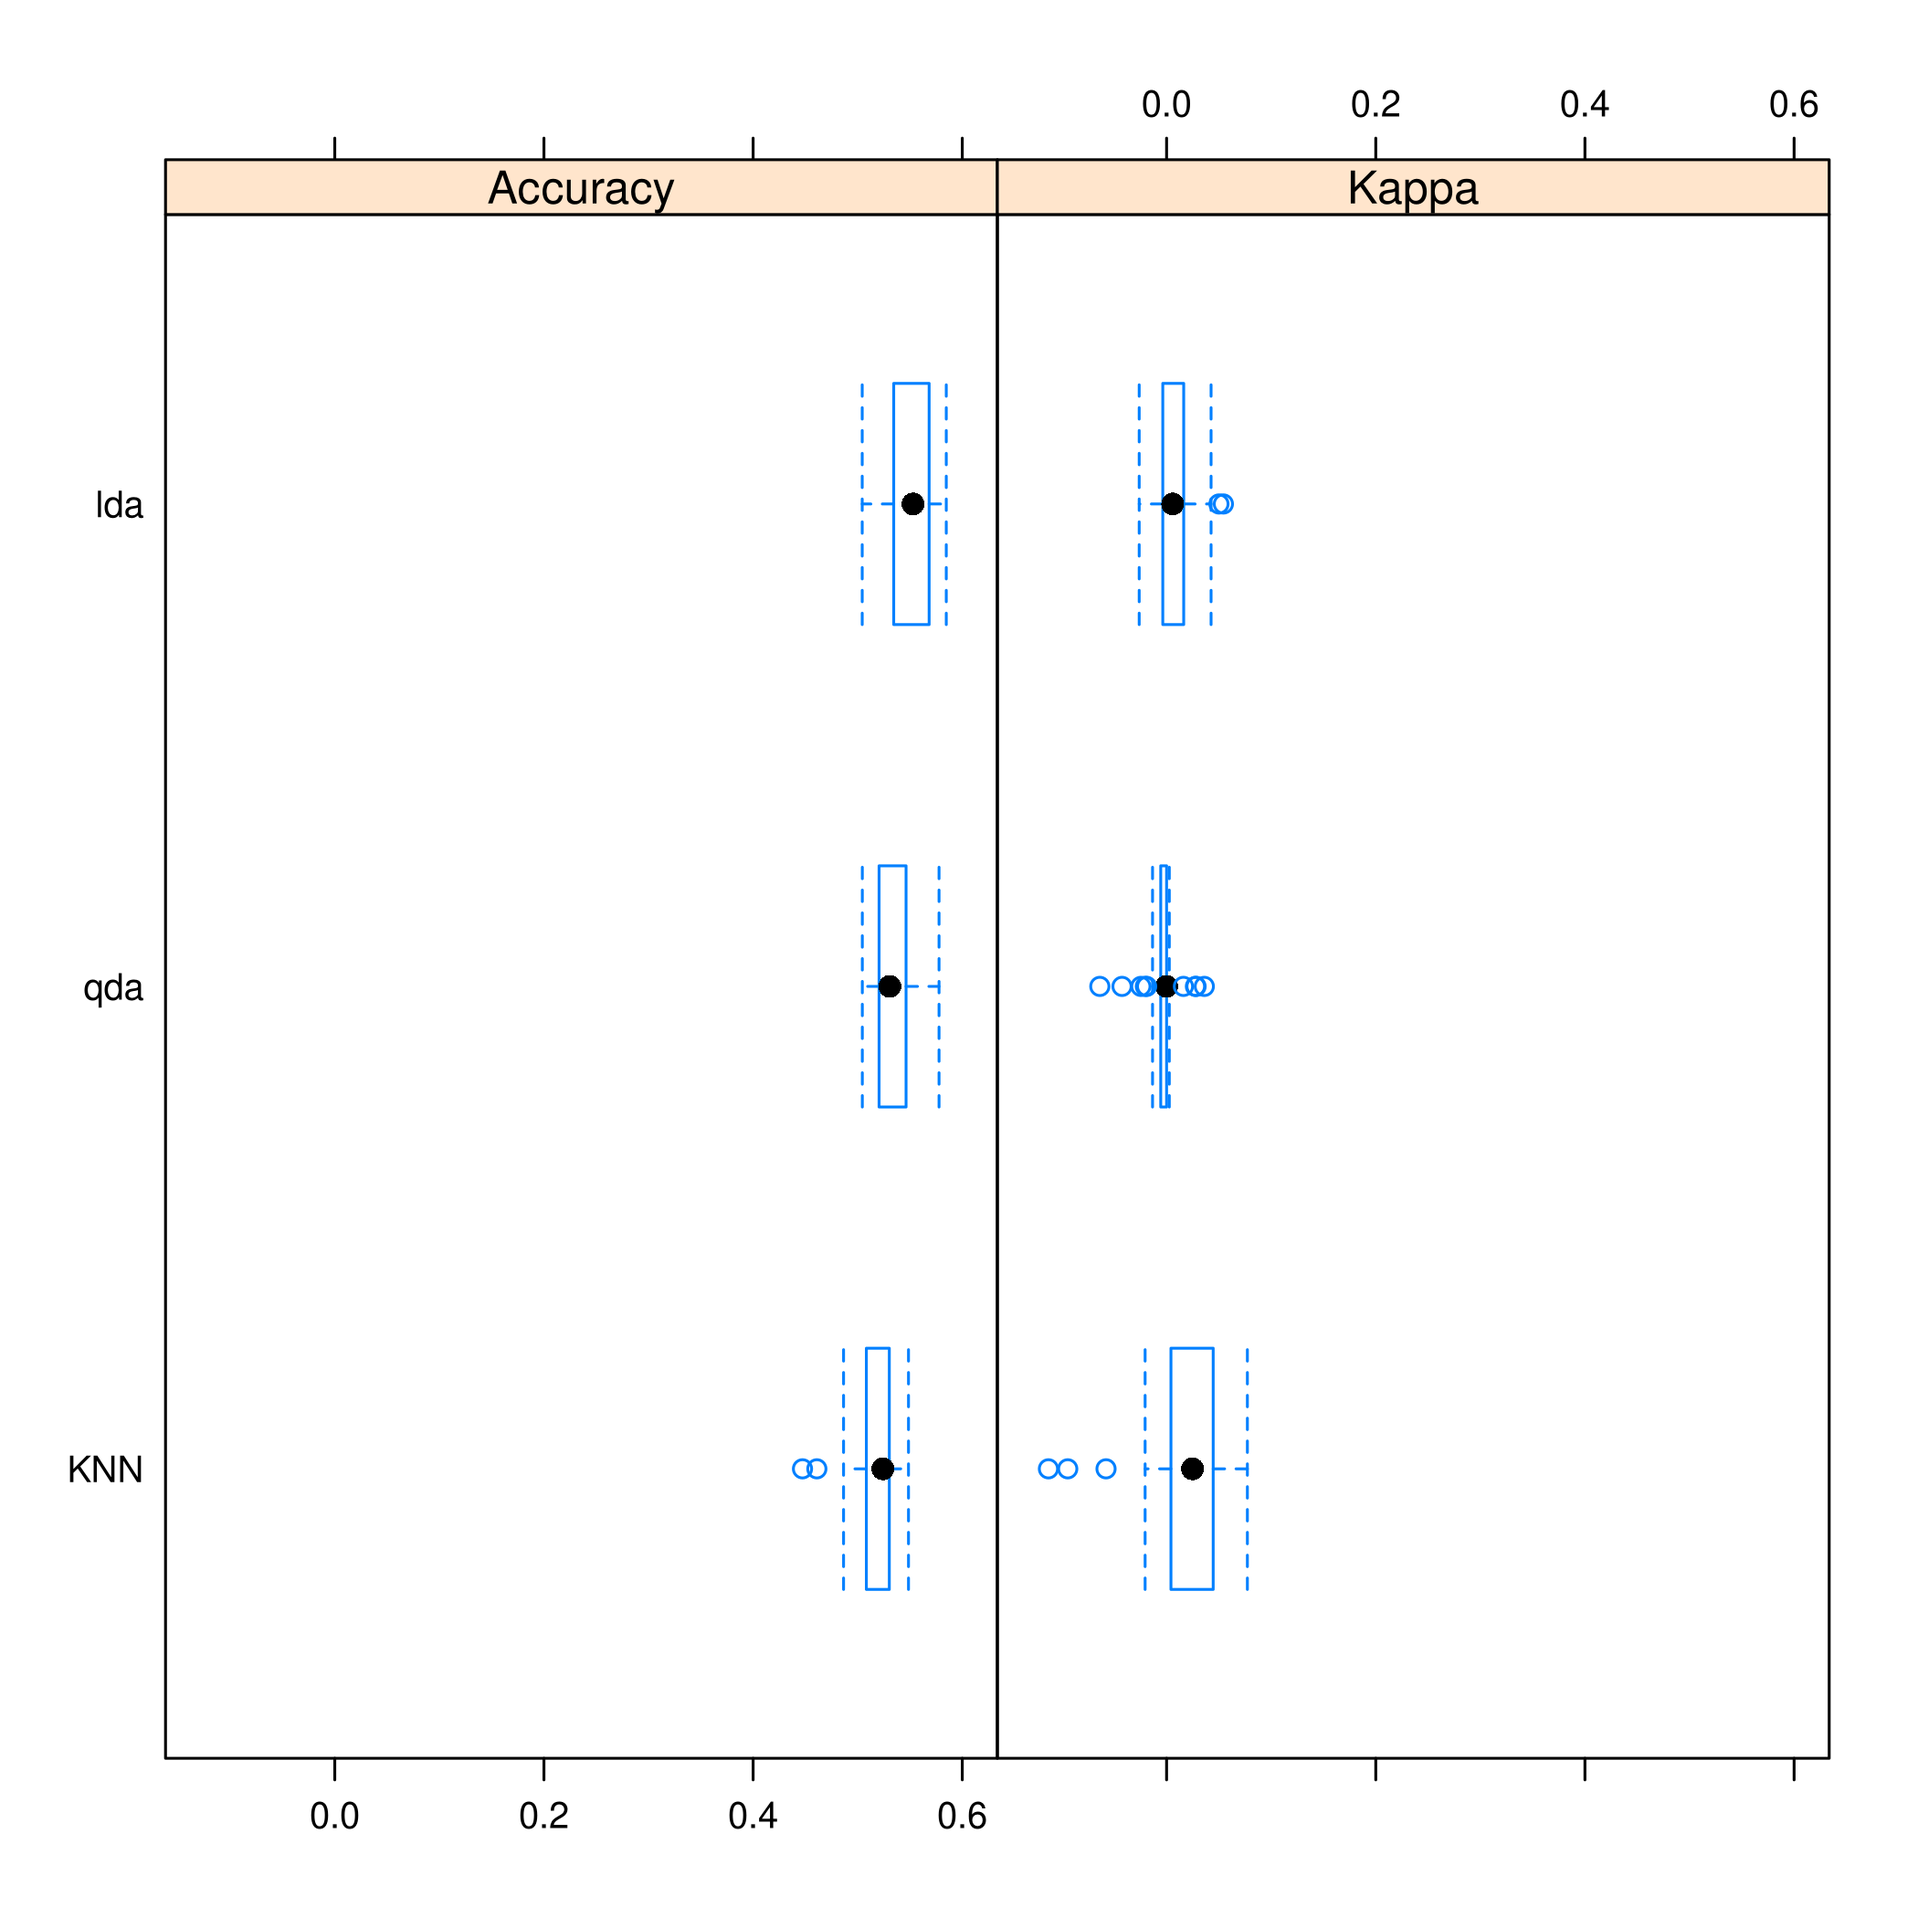
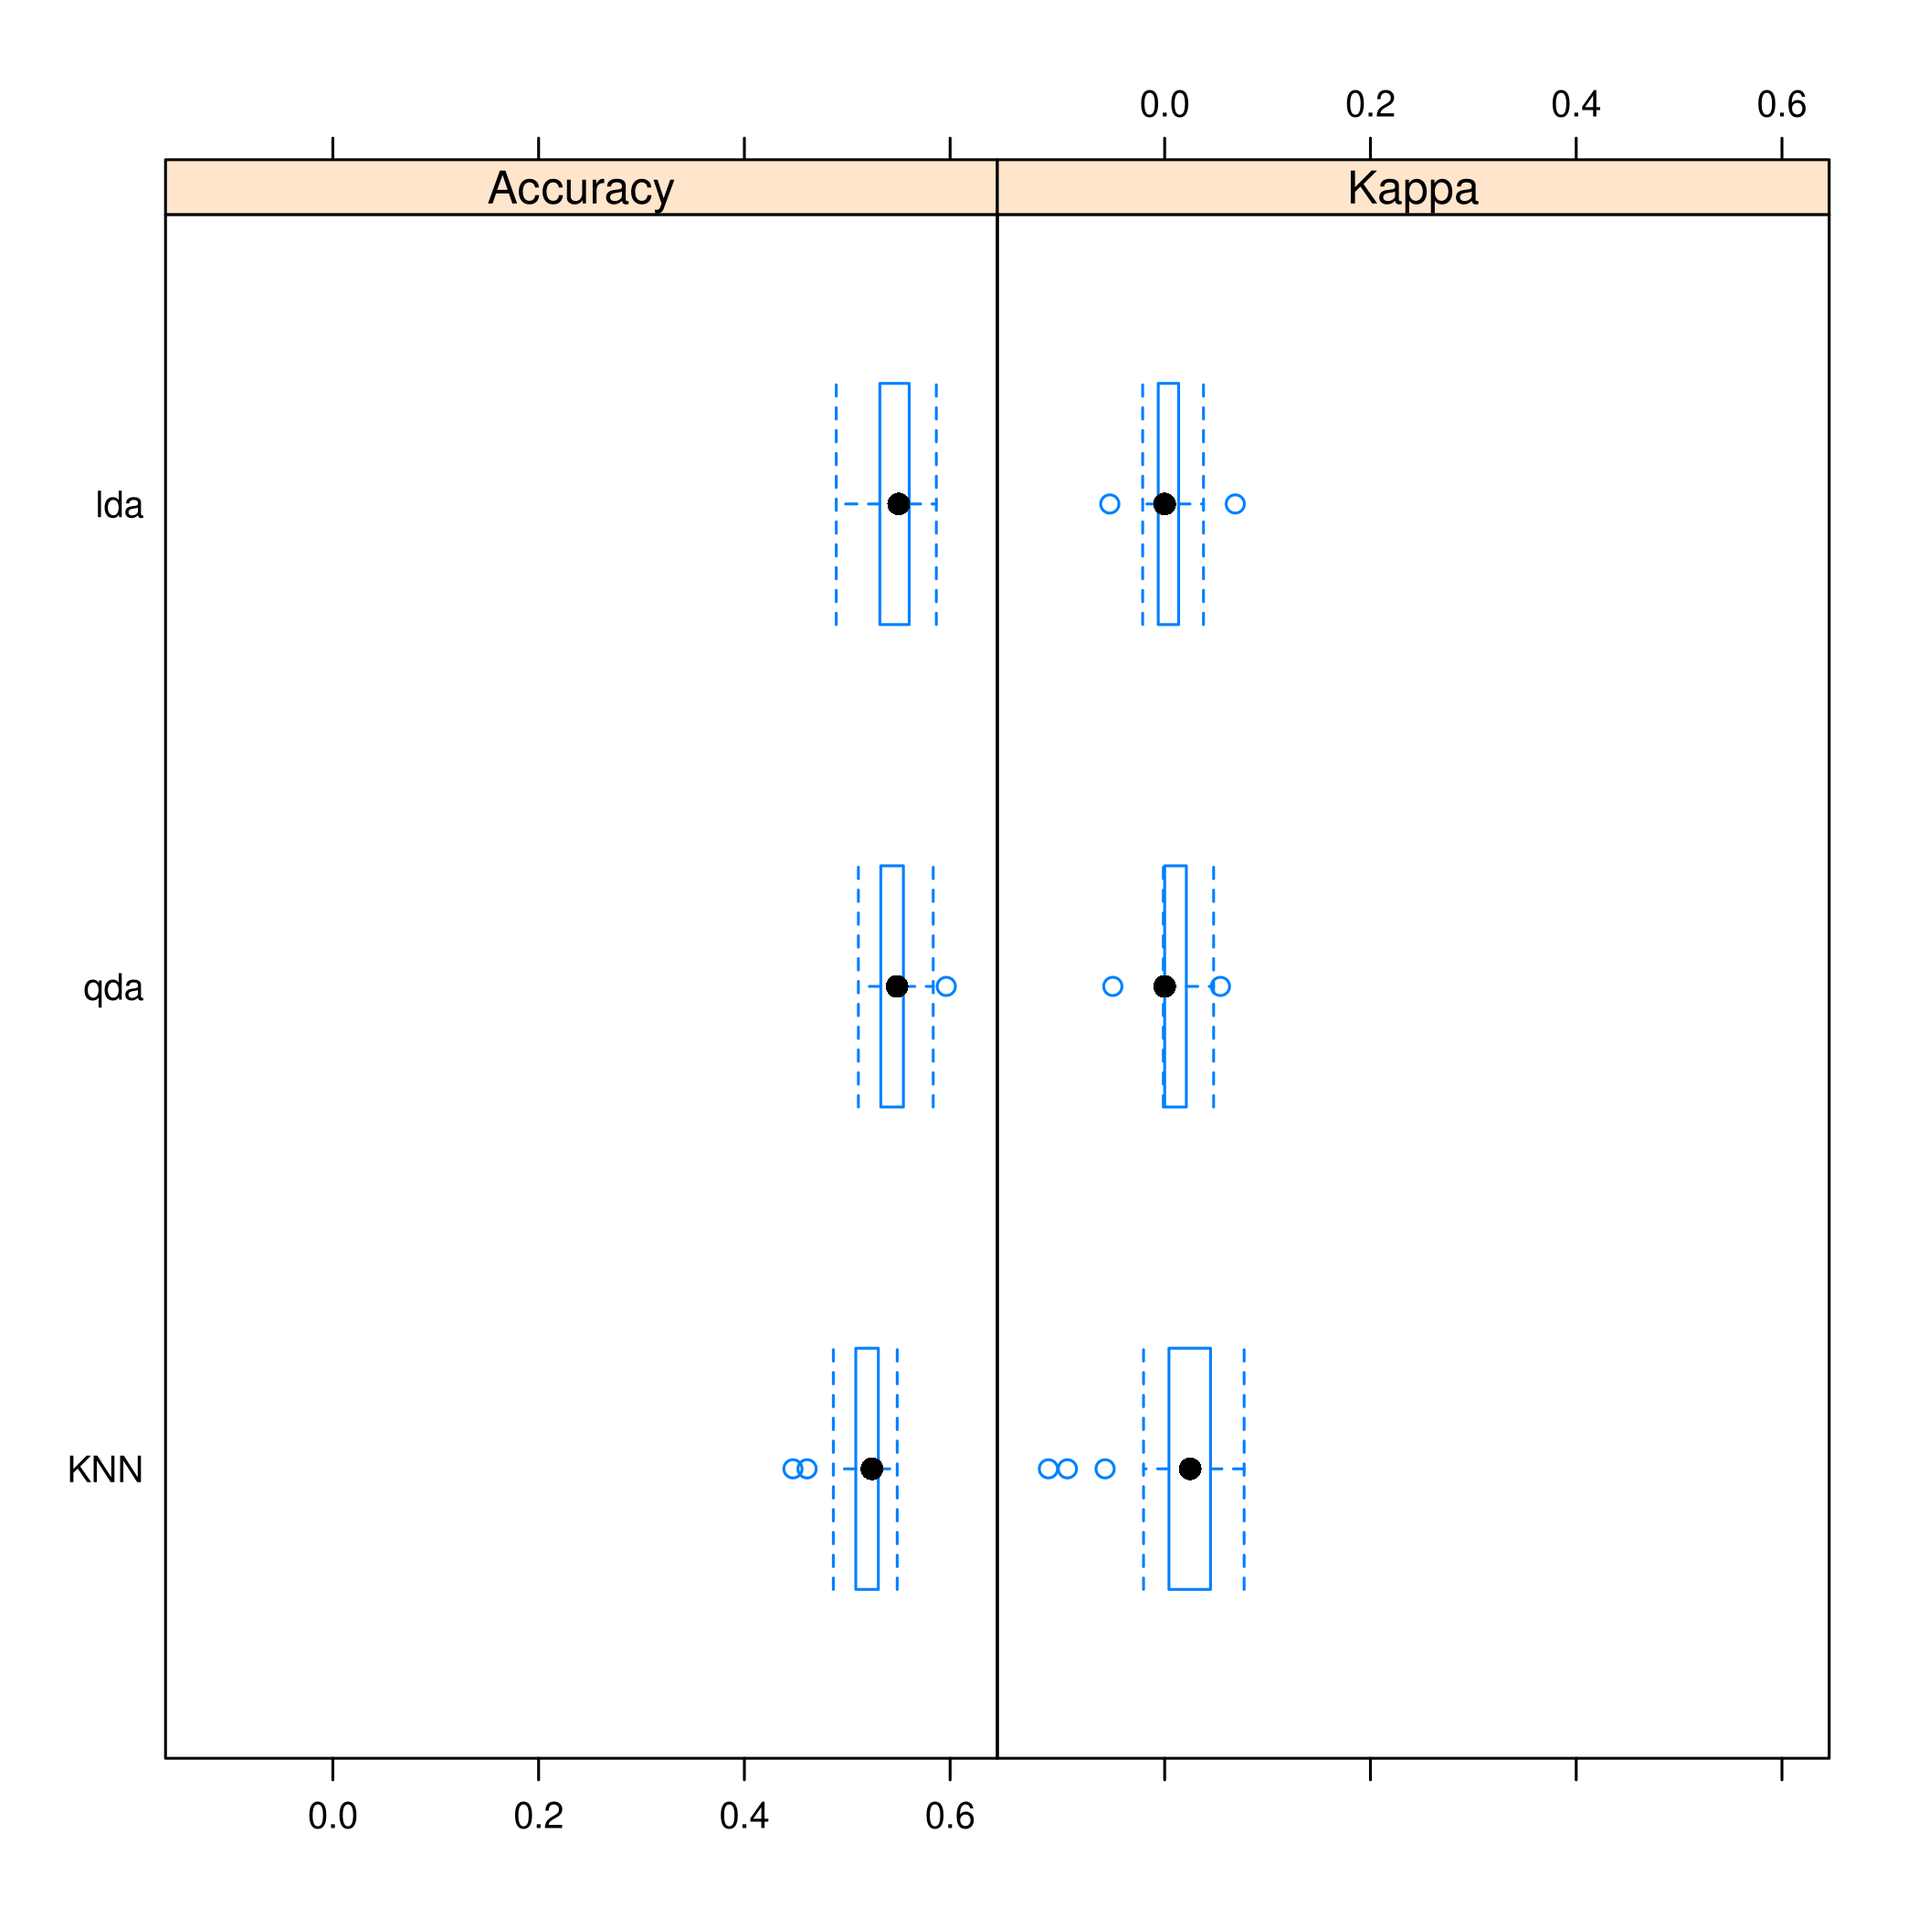
Deploy HaoZeke/haozeke.github.io to github.com/HaoZeke/haozeke.github.io.git:master

diff --git a/posts/islr-ch4/index.html b/posts/islr-ch4/index.html
@@ -40,7 +40,7 @@ libsUsed&lt;-c(&#34;dplyr&#34;,&#34;ggplot2&#34;,&#34;tidyverse&#34;,&#34;ISLR&#
 
 <meta itemprop="datePublished" content="2020-02-17T15:28:00&#43;00:00" />
 <meta itemprop="dateModified" content="2020-02-17T15:28:00&#43;00:00" />
-<meta itemprop="wordCount" content="6659">
+<meta itemprop="wordCount" content="6652">
 
 
 
@@ -861,7 +861,16 @@ models in the caret formulation.</p>
     </figure>
 
 
-<div class="highlight"><pre style="color:#f8f8f2;background-color:#272822;-moz-tab-size:4;-o-tab-size:4;tab-size:4"><code class="language-R" data-lang="R"><span style="color:#a6e22e">dotplot</span>(results)</code></pre></div><div class="highlight"><pre style="color:#f8f8f2;background-color:#272822;-moz-tab-size:4;-o-tab-size:4;tab-size:4"><code class="language-text" data-lang="text"># Error in dotplot(results): object &#39;results&#39; not found</code></pre></div>
+<div class="highlight"><pre style="color:#f8f8f2;background-color:#272822;-moz-tab-size:4;-o-tab-size:4;tab-size:4"><code class="language-R" data-lang="R"><span style="color:#a6e22e">dotplot</span>(resmod)</code></pre></div>
+
+    <figure class="left" >
+        <img src="https://rgoswami.me/islr/sol2/unnamed-chunk-30-2.png"   />
+
+        
+    </figure>
+
+
+
 <p>Kappa or Cohen&rsquo;s Kappa is essentially classification accuracy,
 normalized at the baseline of random chance. It is a more useful measure
 to use on problems that have imbalanced classes. There&rsquo;s more on model
@@ -1760,7 +1769,7 @@ these models uniformly perform so well. I&rsquo;d say 5 is the best option.</p>
                     <svg xmlns="http://www.w3.org/2000/svg" width="24" height="24" viewBox="0 0 24 24" fill="none" stroke="currentColor" stroke-width="2" stroke-linecap="round" stroke-linejoin="round" class="feather feather-tag meta-icon"><path d="M20.59 13.41l-7.17 7.17a2 2 0 0 1-2.83 0L2 12V2h10l8.59 8.59a2 2 0 0 1 0 2.82z"></path><line x1="7" y1="7" x2="7" y2="7"></line></svg><span class="tag"><a href="https://rgoswami.me/tags/solutions">solutions</a></span><span class="tag"><a href="https://rgoswami.me/tags/r">R</a></span><span class="tag"><a href="https://rgoswami.me/tags/islr">ISLR</a></span>
                 </p>
 
-            <p><svg xmlns="http://www.w3.org/2000/svg" width="24" height="24" viewBox="0 0 24 24" fill="none" stroke="currentColor" stroke-width="2" stroke-linecap="round" stroke-linejoin="round" class="feather feather-file-text"><path d="M14 2H6a2 2 0 0 0-2 2v16a2 2 0 0 0 2 2h12a2 2 0 0 0 2-2V8z"></path><polyline points="14 2 14 8 20 8"></polyline><line x1="16" y1="13" x2="8" y2="13"></line><line x1="16" y1="17" x2="8" y2="17"></line><polyline points="10 9 9 9 8 9"></polyline></svg>6659 Words</p>
+            <p><svg xmlns="http://www.w3.org/2000/svg" width="24" height="24" viewBox="0 0 24 24" fill="none" stroke="currentColor" stroke-width="2" stroke-linecap="round" stroke-linejoin="round" class="feather feather-file-text"><path d="M14 2H6a2 2 0 0 0-2 2v16a2 2 0 0 0 2 2h12a2 2 0 0 0 2-2V8z"></path><polyline points="14 2 14 8 20 8"></polyline><line x1="16" y1="13" x2="8" y2="13"></line><line x1="16" y1="17" x2="8" y2="17"></line><polyline points="10 9 9 9 8 9"></polyline></svg>6652 Words</p>
 
             <p><svg xmlns="http://www.w3.org/2000/svg" width="24" height="24" viewBox="0 0 24 24" fill="none" stroke="currentColor" stroke-width="2" stroke-linecap="round" stroke-linejoin="round" class="feather feather-calendar"><rect x="3" y="4" width="18" height="18" rx="2" ry="2"></rect><line x1="16" y1="2" x2="16" y2="6"></line><line x1="8" y1="2" x2="8" y2="6"></line><line x1="3" y1="10" x2="21" y2="10"></line></svg>2020-02-17 15:28 &#43;0000</p>
         </div>
